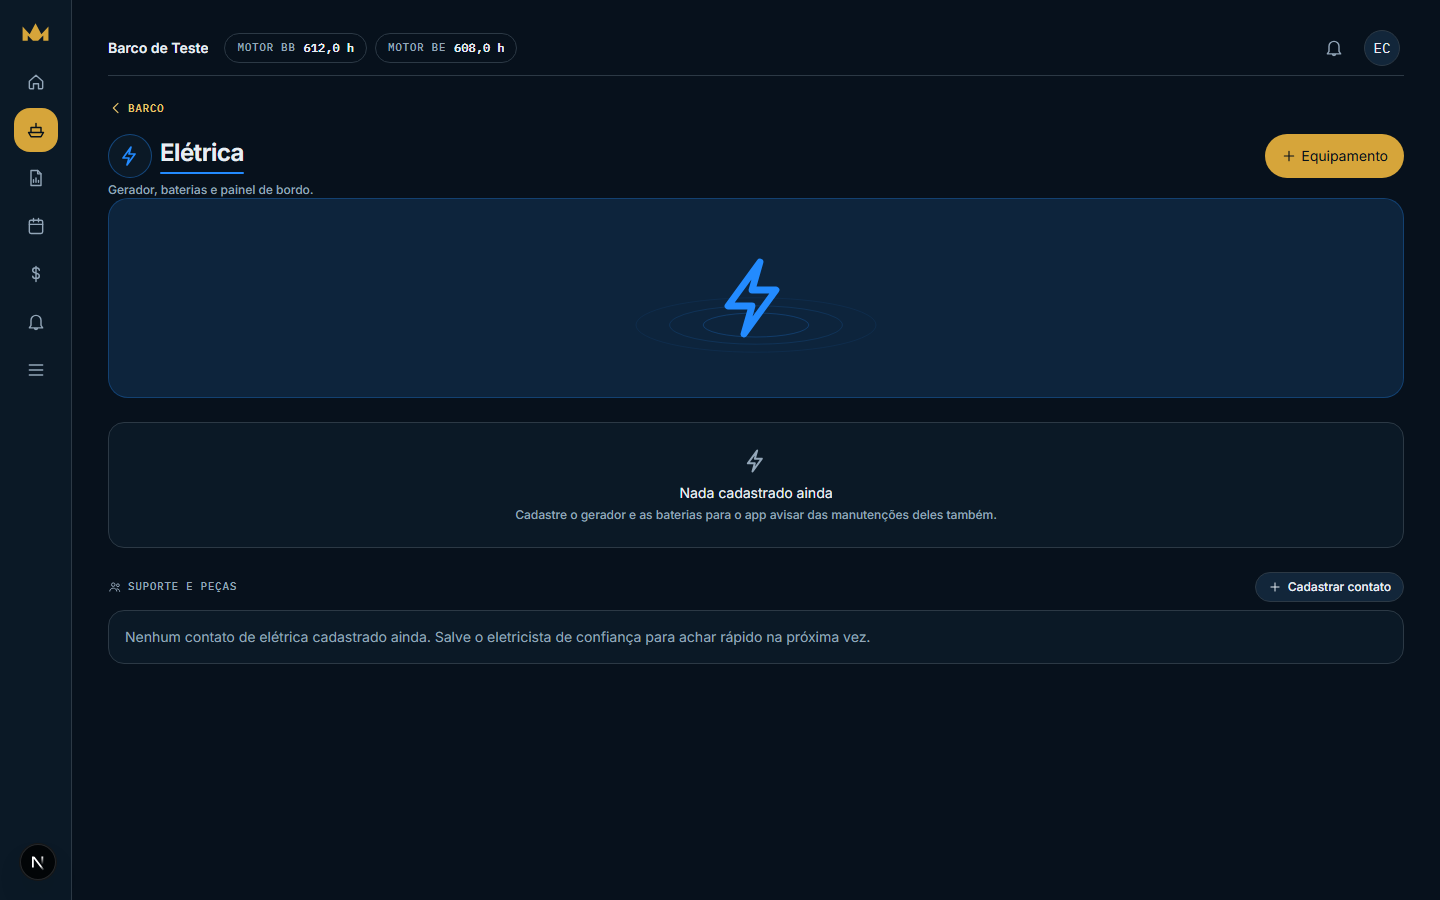
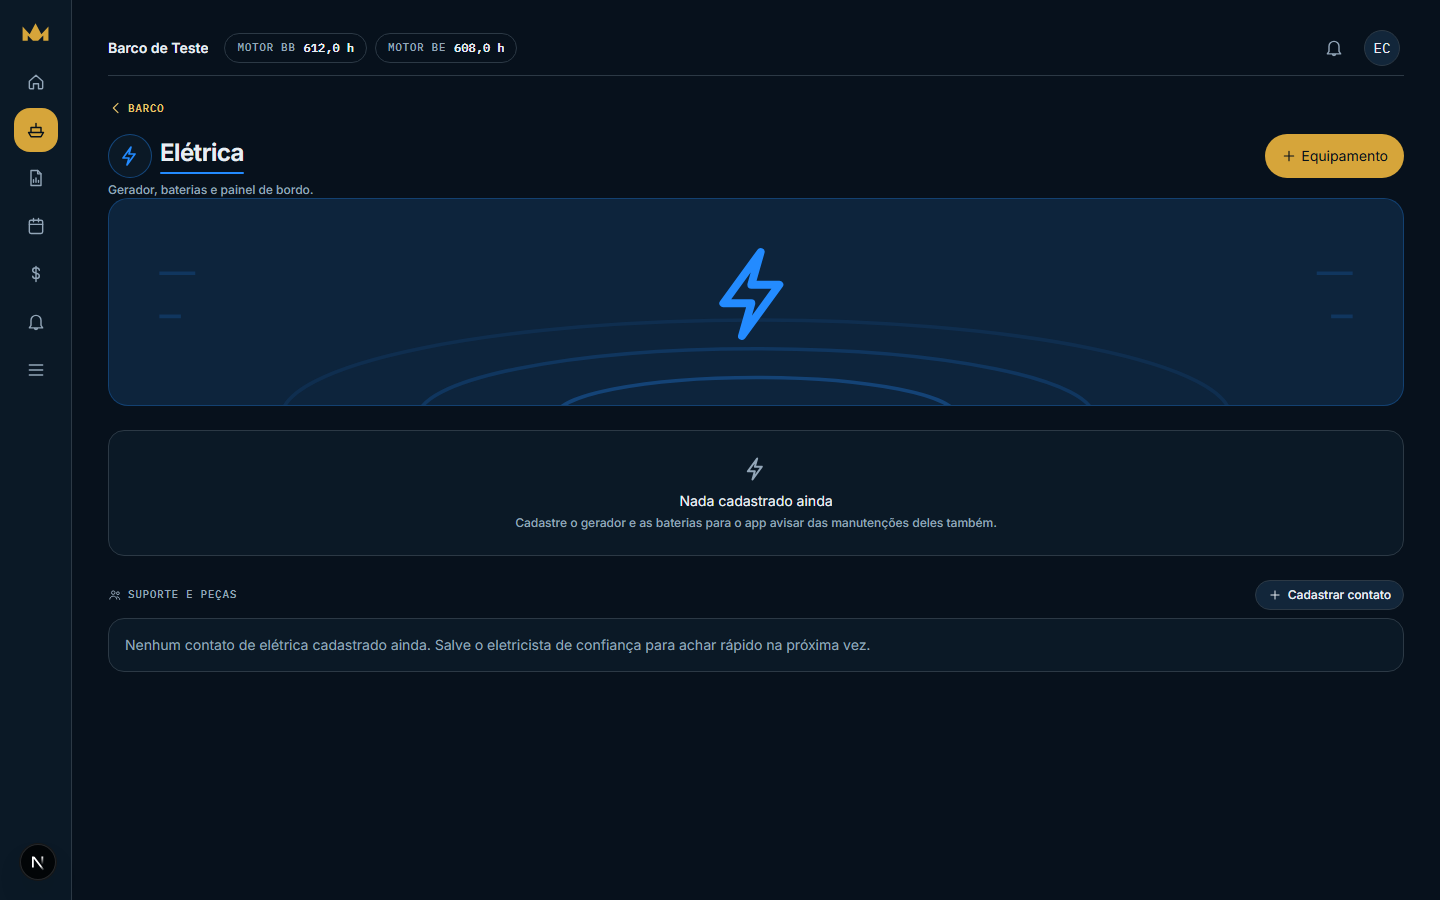
feat(onda 107): o herói vira cena, e a busca por renders 3D gratuitos fica registrada
O dono pediu: *"busque na web as imagens não precisa ser arquivo 3d pode ser
foto 3d free etc"*. A busca foi feita e o resultado é NEGATIVO — está agora em
`docs/DESIGN-SYSTEM.md` §15.3, com a tabela fonte por fonte, para ninguém
refazer a mesma varredura daqui a três meses.

O RESUMO: as bibliotecas 3D realmente CC0 (uso comercial, sem atribuição) não
cobrem o vocabulário náutico.
  · 3dicons.co — CC0 de verdade, ~120 ícones de interface genérica. Tem escudo,
    ferramentas, engrenagem, relógio e pasta. NÃO tem motor marítimo, casco,
    bomba nem balsa.
  · Kenney — CC0, kits de jogo (cidade, masmorra, pirata). Nenhum náutico.
  · Poly Haven — CC0, e a categoria Watercraft está VAZIA.
  · Sketchfab — tem motor marítimo, extintor e colete AVULSOS, cada um com
    licença própria; "download grátis" ali costuma ser CC-BY, que EXIGE
    atribuição.

E DUAS PORTAS QUE PARECIAM ATALHO E NÃO SÃO:
  1. Misturar fontes fura o §6 do próprio guia — "não misturar sólido, outline,
     emoji, clipart e 3D na mesma função". Oito hubs com quatro procedências
     desenhariam quatro linguagens numa grade só.
  2. Misturar licenças é risco real num produto pago. O grátis de
     Vecteezy/Pngtree/Freepik costuma exigir atribuição ou proibir uso
     comercial no plano gratuito. Não vou pôr isso num app de assinatura sem
     decisão explícita do dono.

-----------------------------------------------------------------------------
[…]

diff --git a/web/components/ui/heroi-tecnico.tsx b/web/components/ui/heroi-tecnico.tsx
@@ -6,47 +6,61 @@ import { hub, type ChaveHub } from "@/lib/ui/hubs"
  * ===========================================================================
  * As oito imagens normativas do Guia de Design v1 abrem toda tela de hub com
  * um objeto técnico grande em perspectiva, sobre uma base circular que emite
- * luz na cor do hub. É a coisa que mais separa aquelas telas das nossas: sem
- * ela, uma tela de hub é um título e uma lista.
+ * luz na cor do hub, com HUD discreto em volta. É a coisa que mais separa
+ * aquelas telas das nossas: sem ela, uma tela de hub é um título e uma lista.
  *
  * ---------------------------------------------------------------------------
- * O QUE ISTO NÃO É, E POR QUE NÃO PODE SER
+ * O QUE ISTO NÃO É, E POR QUE NÃO PODE SER (ainda)
  * ---------------------------------------------------------------------------
  * Não é o render 3D das imagens. O §6 do guia é explícito: *"os renders
  * presentes nas imagens são EXEMPLOS DE LINGUAGEM, não o pacote final de
  * assets. A biblioteca definitiva deve ser exportada em tamanhos e ângulos
- * padronizados"* — essa biblioteca não existe ainda, e está anotada como
- * dívida em `docs/DESIGN-SYSTEM.md`.
+ * padronizados"* — essa biblioteca não existe, e a busca por uma pronta e
+ * gratuita foi feita em 19/08 com resultado negativo, registrado em
+ * `docs/DESIGN-SYSTEM.md` §15.4: as bibliotecas CC0 de verdade (3dicons,
+ * Kenney, Poly Haven) não têm NENHUM dos oito objetos náuticos — não há motor
+ * marítimo, casco, bomba nem balsa em lugar nenhum delas.
  *
  * O que existe é a regra que vale ENQUANTO ela não existe, e ela é do §5 do
  * PRD e do §1 deste sistema: **antes do upload, ícone ou ilustração técnica
  * neutra** — e nunca uma fotografia que pareça ser o equipamento da pessoa.
- * Então isto desenha ILUSTRAÇÃO, e desenha assumindo que é ilustração: o traço
- * do ícone da casa, ampliado, sobre a base de luz que as imagens usam. No dia
- * em que os renders chegarem, o `<Icone>` aqui vira um `<img>` e mais nada
- * nesta árvore muda.
+ * Então isto desenha ILUSTRAÇÃO e assume que é. No dia em que os renders
+ * chegarem, o `<Icone>` daqui vira um `<img>` e mais nada nesta árvore muda:
+ * é por isso que a peça existe separada, e não desenhada dentro de cada tela.
  *
  * ---------------------------------------------------------------------------
- * A BASE DE LUZ — três anéis, e o porquê de serem elipses
+ * AS QUATRO CAMADAS, DE TRÁS PARA FRENTE
  * ---------------------------------------------------------------------------
- * Nas imagens o objeto flutua sobre anéis concêntricos vistos em perspectiva,
- * o que os achata em elipses. Desenhar círculos daria um alvo de tiro; a
- * elipse é o que faz o objeto parecer POUSADO em vez de colado. A opacidade
- * cai de 30% para 10% de dentro para fora — é gradiente de atenção, não
- * decoração: o olho entra pelo objeto e sai pela borda.
+ * 1. VÉU — o tom do hub a 8% cobrindo o painel. É o "objeto com luz de recorte
+ *    na cor do hub" do §2 resolvido como atmosfera, e não como brilho no
+ *    traço: brilho no traço nesta escala vira o "neon sem significado" que o
+ *    §1 proíbe.
+ * 2. GRADE EM PERSPECTIVA — cinco linhas que se aproximam à medida que sobem.
+ *    É o que dá CHÃO à cena. Sem ela, os anéis flutuam num retângulo e a
+ *    ilustração lê como ícone dentro de caixa; com ela, lê como objeto sobre
+ *    superfície, que é a diferença que as imagens têm e o ícone solto não tem.
+ * 3. ANÉIS — três elipses concêntricas. Elipse e não círculo: nas imagens a
+ *    base é vista em perspectiva, e círculo concêntrico dá alvo de tiro. A
+ *    opacidade cai de 30% para 10% de dentro para fora — gradiente de atenção,
+ *    não decoração: o olho entra pelo objeto e sai pela borda.
+ * 4. HUD — quatro cantos e dois traços de escala, a 25%. É o *"HUD e telemetria
+ *    discretos, coerentes e informativos"* do §2, com a segunda metade da
+ *    frase respeitada: *"não inserir microdados aleatórios"*. Por isso são
+ *    marcas de enquadramento e não números inventados — número falso numa tela
+ *    de manutenção é a mesma família de mentira que a foto fictícia.
  *
- * `currentColor` no SVG e `text-hub-*` no pai: é o que amarra os anéis ao
- * token do hub sem escrever cor nenhuma à mão (o teto de `tokens.test.ts`
- * conta cor literal por arquivo, e este arquivo nasce com zero).
+ * `currentColor` em todo o SVG e `text-hub-*` no pai: é o que amarra as quatro
+ * camadas ao token do hub sem escrever cor nenhuma à mão (o teto de
+ * `tokens.test.ts` conta cor literal por arquivo, e este arquivo tem zero).
  *
  * ---------------------------------------------------------------------------
  * ALTURA, E POR QUE ELA É MENOR NO CELULAR
  * ---------------------------------------------------------------------------
  * §13: *"herói ~16:7 no desktop e ~16:9 no mobile, altura LIMITADA para os
  * hubs continuarem alcançáveis"*. Aqui não há grade de hub abaixo, mas há a
- * mesma preocupação: o que vem depois do herói é o conteúdo da tela, e um
- * herói que empurra a primeira linha de dado para fora da dobra transforma
- * atmosfera em obstáculo. 160px no celular, 200px a partir de `sm`.
+ * mesma preocupação: o que vem depois é o conteúdo da tela, e um herói que
+ * empurra a primeira linha de dado para fora da dobra troca atmosfera por
+ * obstáculo. 176px no celular, 208px a partir de `sm`.
  */
 export function HeroiTecnico({
   chave,
@@ -63,33 +77,64 @@ export function HeroiTecnico({
          "imagem: motor" aqui repetiria a palavra anterior — e o §14 é explícito
          em que asset decorativo usa alternativo vazio. */
       aria-hidden="true"
-      className={`raio-painel relative flex h-40 items-center justify-center overflow-hidden border bg-panel sm:h-50 ${h.borda} ${h.tom} ${className}`}
+      className={`raio-painel relative flex h-44 items-center justify-center overflow-hidden border bg-panel sm:h-52 ${h.borda} ${h.tom} ${className}`}
     >
-      {/* O VÉU DE LUZ. `absolute inset-0` com o tom a 8%: é o "objeto com luz de
-          recorte na cor do hub" do §2, resolvido como atmosfera do painel em
-          vez de brilho no traço — brilho no traço a esta escala vira o "neon
-          sem significado" que o §1 proíbe. */}
       <span className={`absolute inset-0 ${h.halo}`} />
 
-      {/* OS ANÉIS. `viewBox` fixo e `preserveAspectRatio="none"` NÃO: as elipses
-          precisam manter a proporção para continuarem parecendo perspectiva —
-          esticadas, viram ovais tortas em telas largas. Ficam centradas e
-          transbordam, que é o que o `overflow-hidden` do pai resolve. */}
+      {/* CAMADAS 2, 3 e 4 num SVG só: elas compartilham o mesmo espaço de
+          coordenadas e desenhar em três SVGs faria três sistemas de perspectiva
+          que precisariam concordar à mão.
+          `preserveAspectRatio="xMidYMid slice"` para a cena cobrir a caixa em
+          qualquer largura sem esticar as elipses — elipse esticada deixa de
+          parecer perspectiva e vira oval torta. */}
       <svg
-        viewBox="0 0 320 120"
-        className="absolute bottom-6 h-24 w-80"
+        viewBox="0 0 360 200"
+        preserveAspectRatio="xMidYMid slice"
+        className="absolute inset-0 h-full w-full"
         fill="none"
         stroke="currentColor"
       >
-        <ellipse cx="160" cy="60" rx="150" ry="34" strokeOpacity=".10" />
-        <ellipse cx="160" cy="60" rx="108" ry="24" strokeOpacity=".18" />
-        <ellipse cx="160" cy="60" rx="66" ry="15" strokeOpacity=".30" />
+        {/* 2 — a grade. As linhas se aproximam subindo (y: 200, 186, 175, 167,
+            161), que é o que faz o plano recuar. */}
+        <g strokeOpacity=".07">
+          <line x1="-40" y1="200" x2="400" y2="200" />
+          <line x1="-40" y1="186" x2="400" y2="186" />
+          <line x1="-40" y1="175" x2="400" y2="175" />
+          <line x1="-40" y1="167" x2="400" y2="167" />
+          <line x1="-40" y1="161" x2="400" y2="161" />
+          {/* As verticais convergem para o ponto de fuga em (180, 150). */}
+          <line x1="-60" y1="200" x2="140" y2="150" />
+          <line x1="60" y1="200" x2="160" y2="150" />
+          <line x1="300" y1="200" x2="200" y2="150" />
+          <line x1="420" y1="200" x2="220" y2="150" />
+        </g>
+
+        {/* 3 — os anéis da base, centrados no objeto. */}
+        <ellipse cx="180" cy="132" rx="132" ry="27" strokeOpacity=".10" />
+        <ellipse cx="180" cy="132" rx="94" ry="19" strokeOpacity=".18" />
+        <ellipse cx="180" cy="132" rx="56" ry="11" strokeOpacity=".30" />
+
+        {/* 4 — o HUD: quatro cantos de enquadramento e dois traços de escala. */}
+        <g strokeOpacity=".25" strokeWidth="1.5">
+          <path d="M14 34 v-12 h12" />
+          <path d="M346 34 v-12 h-12" />
+          <path d="M14 166 v12 h12" />
+          <path d="M346 166 v12 h-12" />
+        </g>
+        <g strokeOpacity=".18">
+          <line x1="14" y1="92" x2="24" y2="92" />
+          <line x1="14" y1="104" x2="20" y2="104" />
+          <line x1="346" y1="92" x2="336" y2="92" />
+          <line x1="346" y1="104" x2="340" y2="104" />
+        </g>
       </svg>
 
-      {/* O OBJETO. `relative` para ficar acima do véu e dos anéis sem z-index
-          inventado — ordem de pintura basta quando os irmãos anteriores são
-          `absolute`. */}
-      <Icone nome={h.icone} className="relative size-20 sm:size-24" />
+      {/* O OBJETO. `-mt-4` o levanta para pousar sobre o anel de dentro em vez
+          de ficar no meio geométrico da caixa — objeto centrado numa cena que
+          tem chão parece colado; levantado, parece pousado.
+          `relative` para ficar acima do véu e do SVG sem z-index inventado:
+          ordem de pintura basta quando os irmãos anteriores são `absolute`. */}
+      <Icone nome={h.icone} className="relative -mt-4 size-24 sm:size-28" />
     </div>
   )
 }

diff --git a/docs/DESIGN-SYSTEM.md b/docs/DESIGN-SYSTEM.md
@@ -366,7 +366,41 @@ telemetria.
 mecânico de `font-mono-instr` → `tabular-nums`, e some um download de fonte
 (ganho no §14).
 
-### 15.3 O tema claro
+### 15.3 A biblioteca de renders 3D não existe — e não há uma pronta e gratuita
+
+O §6 pede uma biblioteca de renders 3D "exportada em tamanhos e ângulos
+padronizados" para os oito hubs. Ela não existe, e as telas usam
+`components/ui/heroi-tecnico.tsx` — ilustração técnica, que é o que o §5 do PRD
+manda usar antes da foto real.
+
+**Busca feita em 19/08/2026, com resultado negativo.** As bibliotecas 3D
+realmente CC0 (uso comercial, sem atribuição) não cobrem o vocabulário náutico:
+
+| Fonte | Licença | Tem os oito objetos? |
+|---|---|---|
+| [3dicons.co](https://3dicons.co/) | CC0, sem atribuição | **Não.** ~120 ícones de interface genérica (escudo, ferramentas, engrenagem, relógio, pasta). Sem motor marítimo, casco, bomba ou balsa |
+| [Kenney](https://kenney.nl/assets/category:3D) | CC0 | **Não.** Kits de jogo (cidade, masmorra, pirata). Nenhum pacote náutico |
+| [Poly Haven](https://polyhaven.com/models) | CC0 | **Não.** A categoria *Watercraft* está vazia |
+| [Sketchfab](https://sketchfab.com/tags/cc0) | varia por modelo | **Parcial.** Há motor marítimo, extintor e colete avulsos, mas cada um com licença própria — e "download grátis" ali costuma ser CC-BY, que **exige atribuição** |
+
+Duas conclusões que fecham a porta do atalho:
+
+1. **Misturar fontes fura o §6 do próprio guia** — *"não misturar sólido,
+   outline, emoji, clipart e 3D na mesma função"*. Oito hubs com quatro
+   procedências desenhariam quatro linguagens numa grade só.
+2. **Misturar licenças é risco real num produto pago.** O grátis de
+   Vecteezy/Pngtree/Freepik costuma exigir atribuição ou proibir uso
+   comercial no plano gratuito.
+
+**Os dois caminhos que funcionam**, quando o dono decidir:
+
+- **Blender + modelos CC0 avulsos.** Sourcing por hub no Sketchfab/Poly Haven,
+  conferindo licença um a um, e render local nos oito ângulos padronizados. O
+  ambiente já tem as ferramentas do Blender ligadas; falta o Blender aberto.
+- **Encomendar o pacote.** Oito objetos, perspectiva 3/4, luz principal
+  superior esquerda, fundo transparente, WebP + PNG de fallback (§14).
+
+### 15.4 O tema claro
 
 O guia não o menciona. Ele existe como preferência de produto e segue a regra
 de tradução do §3.3. Se o dono decidir que o Commander é escuro e ponto, o tema
